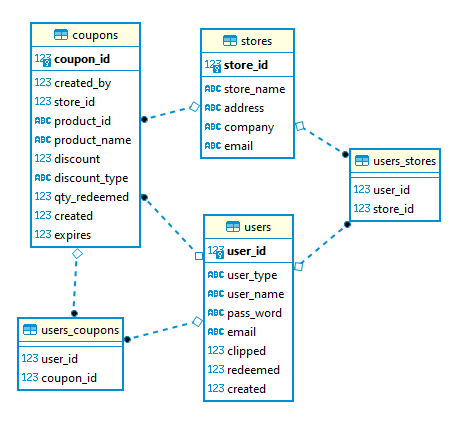
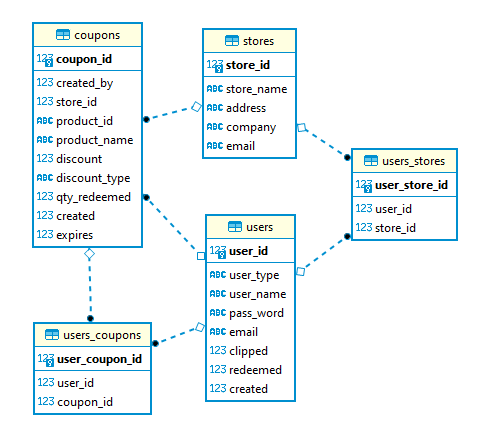
users_coupons getting null param

Changed region(s): [[0.0302, 0.0304, 0.9655, 0.9438]]

diff --git a/back/users_coupons/src/main/java/com/clipr/users_coupons/controller/UsersCouponsController.java b/back/users_coupons/src/main/java/com/clipr/users_coupons/controller/UsersCouponsController.java
@@ -1,0 +1,34 @@
+package com.clipr.users_coupons.controller;
+
+import com.clipr.users_coupons.model.UserCoupon;
+import com.clipr.users_coupons.service.UsersCouponsService;
+import org.springframework.beans.factory.annotation.Autowired;
+import org.springframework.web.bind.annotation.*;
+
+import java.util.*;
+
+@RestController
+@RequestMapping("/users_coupons")
+public class UsersCouponsController {
+
+    @Autowired
+    UsersCouponsService myUsersCouponsService;
+
+    @GetMapping
+    public List<UserCoupon> getAllUsersCoupons(){ return myUsersCouponsService.getAllUsersCoupons(); }
+
+    @GetMapping("/{id}")
+    public UserCoupon getUserCouponById(Integer id){
+        return  myUsersCouponsService.getUserCouponById(id);
+    }
+
+    @GetMapping("/user_id/{id}")
+    public List<UserCoupon> getCouponsByUserId(Integer id){
+        System.out.println(id);
+        return myUsersCouponsService.getCouponsByUserId(id); }
+
+    @GetMapping("/coupon_id/{id}")
+    public List<UserCoupon> getUsersByCouponId(Integer id){ return myUsersCouponsService.getCouponsByUserId(id); }
+
+
+}

diff --git a/back/coupons/src/main/java/com/clipr/coupon/service/CouponService.java b/back/coupons/src/main/java/com/clipr/coupon/service/CouponService.java
@@ -4,6 +4,7 @@ import com.clipr.coupon.repository.CouponRepo;
 import com.clipr.coupon.model.Coupon;
 import org.springframework.beans.factory.annotation.Autowired;
 import org.springframework.stereotype.Service;
+import org.springframework.web.reactive.function.client.WebClient;
 
 import java.util.*;
 
@@ -18,6 +19,19 @@ public class CouponService {
 
     //get one coupon with supplied id
     public Coupon getCouponById(Integer id){ return myCouponRepo.findById(id).orElse(new Coupon()); }
+
+    //get a list of coupons associated with a supplied user id
+    public String getCouponsByUserId(Integer id){
+
+        WebClient myWebClient = WebClient.create();
+
+        WebClient.ResponseSpec myReSpec = myWebClient.get()
+                .uri("http://localhost:8084/users_coupons/" + id)
+                .retrieve();
+
+
+        return myReSpec.bodyToMono(String.class).block();
+    }
 
     //create a new coupon record
     public void createNewCoupon(Coupon myCoupon){ myCouponRepo.save(myCoupon); }

diff --git a/back/users_coupons/src/main/java/com/clipr/users_coupons/service/UsersCouponsService.java b/back/users_coupons/src/main/java/com/clipr/users_coupons/service/UsersCouponsService.java
@@ -1,0 +1,23 @@
+package com.clipr.users_coupons.service;
+
+import com.clipr.users_coupons.repository.UsersCouponsRepo;
+import com.clipr.users_coupons.model.UserCoupon;
+import org.springframework.beans.factory.annotation.Autowired;
+import org.springframework.stereotype.Service;
+
+import java.util.*;
+
+@Service
+public class UsersCouponsService {
+
+    @Autowired
+    UsersCouponsRepo myUsersCouponsRepo;
+
+    //get a usercoupon with a supplied user_coupon_id
+    public UserCoupon getUserCouponById(Integer id){ return myUsersCouponsRepo.findById(id).orElse(new UserCoupon()); }
+    //get a list of all user/coupon records
+    public List<UserCoupon> getAllUsersCoupons(){ return myUsersCouponsRepo.findAll(); }
+
+    //get a list of coupons matching a supplied user id
+    public List<UserCoupon> getCouponsByUserId(Integer id){ return myUsersCouponsRepo.findByuserId(id); }
+}

diff --git a/back/coupons/src/main/java/com/clipr/coupon/controller/CouponController.java b/back/coupons/src/main/java/com/clipr/coupon/controller/CouponController.java
@@ -8,7 +8,7 @@ import org.springframework.web.bind.annotation.*;
 import java.util.*;
 
 @RestController
-@RequestMapping("/coupon")
+@RequestMapping("/coupons")
 public class CouponController {
 
     @Autowired
@@ -19,6 +19,9 @@ public class CouponController {
 
     @GetMapping("/{id}")
     public Coupon getCouponById(@PathVariable Integer id){ return myCouponService.getCouponById(id); }
+
+    @GetMapping("/user_id/{id}")
+    public String getCouponsByUserId(@PathVariable Integer id){ return myCouponService.getCouponsByUserId(id); }
 
     @PostMapping
     public void createNewCoupon(@RequestBody Coupon myCoupon){ myCouponService.createNewCoupon(myCoupon); }

diff --git a/back/users_coupons/src/main/java/com/clipr/users_coupons/repository/UsersCouponsRepo.java b/back/users_coupons/src/main/java/com/clipr/users_coupons/repository/UsersCouponsRepo.java
@@ -1,0 +1,15 @@
+package com.clipr.users_coupons.repository;
+
+import com.clipr.users_coupons.model.UserCoupon;
+import org.springframework.data.jpa.repository.JpaRepository;
+import org.springframework.stereotype.Repository;
+
+import java.util.List;
+
+@Repository
+public interface UsersCouponsRepo extends JpaRepository<UserCoupon, Integer> {
+
+    List<UserCoupon> findByuserId(int user_id);
+
+    List<UserCoupon> findBycouponId(int coupon_id);
+}

diff --git a/back/users_coupons/src/main/java/com/clipr/users_coupons/model/UserCoupon.java b/back/users_coupons/src/main/java/com/clipr/users_coupons/model/UserCoupon.java
@@ -1,0 +1,18 @@
+package com.clipr.users_coupons.model;
+
+import lombok.Data;
+import javax.persistence.*;
+
+@Entity(name = "users_coupons")
+@Data
+public class UserCoupon {
+
+    @Id
+    @GeneratedValue(strategy = GenerationType.AUTO)
+    @Column(name = "user_coupon_id")
+    private int userCouponId;
+    @Column(name = "user_id")
+    private int userId;
+    @Column(name = "coupon_id")
+    private int couponId;
+}

diff --git a/back/stores/src/main/java/com/clipr/stores/model/Store.java b/back/stores/src/main/java/com/clipr/stores/model/Store.java
@@ -9,7 +9,6 @@ public class Store {
 
     @Id
     @GeneratedValue(strategy = GenerationType.AUTO)
-    @Column(name = "store_id")
     private int store_id;
     private String store_name;
     private String address;

diff --git a/back/coupons/src/main/java/com/clipr/coupon/model/Coupon.java b/back/coupons/src/main/java/com/clipr/coupon/model/Coupon.java
@@ -9,7 +9,6 @@ public class Coupon {
 
     @Id
     @GeneratedValue(strategy = GenerationType.AUTO)
-    @Column(name = "coupon_id")
     private int coupon_id;
     private int created_by;
     private int store_id;

diff --git a/back/users/src/main/java/com/clipr/user/model/User.java b/back/users/src/main/java/com/clipr/user/model/User.java
@@ -9,7 +9,6 @@ public class User {
 
     @Id
     @GeneratedValue(strategy = GenerationType.AUTO)
-    @Column(name = "user_id")
     private int user_id;
     private String user_type;
     private String user_name;

diff --git a/back/users/src/main/java/com/clipr/user/controller/UserController.java b/back/users/src/main/java/com/clipr/user/controller/UserController.java
@@ -9,7 +9,7 @@ import org.springframework.web.bind.annotation.*;
 import java.util.*;
 
 @RestController
-@RequestMapping("/user")
+@RequestMapping("/users")
 public class UserController {
 
     @Autowired
